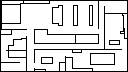
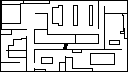
123

Changed region(s): [[0.25, 0.1667, 0.375, 0.4167], [0.4688, 0.6111, 0.5312, 0.6944]]

diff --git a/src/shooter/world/Level.java b/src/shooter/world/Level.java
@@ -15,6 +15,7 @@ import java.util.ArrayList;
 
 import static shooter.entities.Enemy.LOSdist;
 import static shooter.gfx.Display.fraktur;
+import static shooter.gfx.Display.frakturBig;
 
 public class Level {
     //indicates the number of the level
@@ -37,6 +38,8 @@ public class Level {
     private boolean started = false;
     //activity of extraction sequence
     private boolean ended = false;
+    //are enemies dead?
+    private boolean enemiesDead;
     //from which way the player enters the map
     int extractionDir, startDir;
     //this constructor initializes the values
@@ -77,8 +80,12 @@ public class Level {
         //renderTiles(g);
         entityManager.render(g);
         g.drawImage(map[2],(int)(0-handler.getGameCamera().getxOffset()),(int)(0-handler.getGameCamera().getyOffset()),null);
-
-        if(ended && levelNumber != 3) {
+        if(enemiesDead){
+            g.setColor(Color.red);
+            g.setFont(fraktur);
+            g.drawString("go here",(int)(posX- handler.getxOffset()-g.getFontMetrics(fraktur).stringWidth("go here")/2),(int)(posY- handler.getyOffset()));
+        }
+        if(ended && levelNumber != 4) {
             if (entityManager.getPlayer().isMoveA()) {
                 g.setColor(new Color(238, 238, 238));
                 g.fillRect(960 - 600, 540 - 200, 400, 400);
@@ -92,7 +99,7 @@ public class Level {
                 g.setColor(new Color(238, 238, 238));
                 g.fillRect(960 - 200, 540 - 600, 400, 400);
             }
-        }else if(!started) {
+        }else if(!started && levelNumber != 6) {
             if (entityManager.getPlayer().isMoveD()) {
                 g.setColor(new Color(238, 238, 238));
                 g.fillRect(960 - 600, 540 - 200, 400, 400);
@@ -283,8 +290,10 @@ public class Level {
                 break;
             }
         }
-        if(nextLevel && Math.abs(entityManager.getPlayer().getX()-posX)<600&& Math.abs(entityManager.getPlayer().getY()-posY)<600)
+        enemiesDead = true;
+        if(nextLevel && Math.abs(entityManager.getPlayer().getX()-posX)<100&& Math.abs(entityManager.getPlayer().getY()-posY)<100) {
             vanish();
+        }
     }
     //TODO: change distance to extractionpoint
     //method to check if the Rectangle collides with the Player
@@ -301,6 +310,19 @@ public class Level {
         if(x >= 0 && x < 64 * mapsize && y >= 0 && y < 36 * mapsize)
             return tiles[x][y];
         return tiles[0][0];
+    }
+    //alert nearby getEnemies
+    public void alertEnemies(int x, int y, int distance){
+        int dx, dy;
+        for (Entity e : getEntityManager().getEnemies()) {
+            dx = (int) (e.getX() - x);                      //pythagoras
+            dy = (int) (e.getY() - y);                      //pythagoras
+            if((Math.sqrt((dx * dx) + (dy * dy)))  <= distance){
+                ((Enemy) e).setLastCoords();
+                ((Enemy) e).setPlayerSpotted(false);
+                ((Enemy) e).setPathfindingDelay(0);
+            }
+        }
     }
     //debugging
     public void renderTiles(Graphics g){

diff --git a/src/shooter/entities/Item.java b/src/shooter/entities/Item.java
@@ -43,6 +43,8 @@ public class Item extends Entity{
     private Timer meeleTimer;
     //entity that activated the item
     private Entity activator;
+    //loudness of gun
+    private int loudness = 0;
     //this constructor initializes the values
     public Item(float posX, float posY, int type, Handler handler, Level level) {
         super(posX,posY,2, handler, level);
@@ -71,6 +73,7 @@ public class Item extends Entity{
                 rpm = 400;
                 reloadTime = 90;
                 offset = 100;
+                loudness = 300;
                 break;
             case 4:
                 //Silenced Pistol
@@ -80,6 +83,7 @@ public class Item extends Entity{
                 rpm = 85;
                 reloadTime = 120;
                 offset = 70;
+                loudness = 100;
                 break;
             case 5:
                 //Machine Pistol
@@ -89,6 +93,7 @@ public class Item extends Entity{
                 rpm = 600;
                 reloadTime = 120;
                 offset = 80;
+                loudness = 300;
                 break;
             case 6:
                 //Rifle
@@ -98,6 +103,7 @@ public class Item extends Entity{
                 rpm = 120;
                 reloadTime = 180;
                 offset = 50;
+                loudness = 400;
                 break;
             case 7:
                 //Shotgun
@@ -107,6 +113,7 @@ public class Item extends Entity{
                 rpm = 60;
                 reloadTime = 320;
                 offset = 70;
+                loudness = 400;
                 break;
             case 8:
                 //Rocket Launcher
@@ -237,11 +244,13 @@ public class Item extends Entity{
         posY = activator.getY();
     }
     //method to pick an item up
-    public void pick_up(Entity activator){
-        if(type > 2)
-            Sound.play("LoadGun");
-        else if(type == 1 || type == 2)
-            Sound.play("DrawKnife");
+    public void pick_up(Entity activator, boolean sound){
+        if(sound) {
+            if (type > 2)
+                Sound.play("LoadGun");
+            else if (type == 1 || type == 2)
+                Sound.play("DrawKnife");
+        }
         active = false;
         posX = activator.getX();
         posY = activator.getY();
@@ -339,5 +348,8 @@ public class Item extends Entity{
     public boolean isMelee(){ return melee; }
     public int getAmmoMax() {
         return ammoMax;
+    }
+    public int getLoudness() {
+        return loudness;
     }
 }

diff --git a/src/shooter/entities/Enemy.java b/src/shooter/entities/Enemy.java
@@ -241,6 +241,11 @@ public class Enemy extends Entity{
         }
         legAnimation.stop();
     }
+    //starts pathfinding
+    public void goToPlayer(){
+        findpath(level.getTiles(((int) ((posX) / 30)), ((int) ((posY) / 30))), level.getTiles((int)level.getEntityManager().getPlayer().getX(), (int)level.getEntityManager().getPlayer().getY()));
+        playerSpotted = false;
+    }
     //checks it the enemy can see the player
     public boolean lineOfSight(){
         if(Math.abs(level.getEntityManager().getPlayer().getX()-posX)>LOSdist||Math.abs(level.getEntityManager().getPlayer().getY()-posY)>LOSdist)
@@ -272,8 +277,11 @@ public class Enemy extends Entity{
     }
     @Override
     public void tick() {
+        System.out.println(lastCoords[0] +"  "+lastCoords[1]);
+        System.out.println(active);
         if(pathfindingDelay<1) {
             findpath(level.getTiles(((int) ((posX) / 30)), ((int) ((posY) / 30))), level.getTiles(lastCoords[0], lastCoords[1]));
+            System.out.println("helOOOOOOOOOOOOOOOOOOOOOO");
             playerSpotted = false;
         }
 
@@ -298,6 +306,7 @@ public class Enemy extends Entity{
                     activeAnimation = attackAnimations[item.getType()];
                 }
             }else{
+                System.out.println(trace);
                 followTrace(trace);
                 if(playerSpotted) {
                     lastCoords = new int[]{(int) ((level.getEntityManager().getPlayer().getX()) / 30), (int) ((level.getEntityManager().getPlayer().getY()) / 30)};
@@ -338,4 +347,13 @@ public class Enemy extends Entity{
     public Item getItem(){ return item; }
     public boolean getActive(){return super.active;}
     public String getData(){ return ((int)posX+","+(int)posY+","+(int)dir+","+item.getType()+","+item.getAmmo()+","+alive); }
+    public void setLastCoords() {
+        lastCoords = new int[]{(int) ((level.getEntityManager().getPlayer().getX()) / 30), (int) ((level.getEntityManager().getPlayer().getY()) / 30)};
+    }
+    public void setPlayerSpotted(boolean playerSpotted) {
+        this.playerSpotted = playerSpotted;
+    }
+    public void setPathfindingDelay(int pathfindingDelay) {
+        this.pathfindingDelay = pathfindingDelay;
+    }
 }

diff --git a/src/shooter/entities/Player.java b/src/shooter/entities/Player.java
@@ -41,7 +41,7 @@ public class Player extends Entity{
             item = new Item(posX, posY, itemType, handler, level);
             item.setAmmo(ammo);
             level.getEntityManager().addEntity(item);
-            item.pick_up(this);
+            item.pick_up(this, false);
             ableToPickup = false;
         }
 
@@ -79,6 +79,7 @@ public class Player extends Entity{
         if(item != null) {
             if(handler.getMouseManager().isLeftPressed()&&item.getAmmo()!=0) {
                 item.activate(this);
+                level.alertEnemies((int)posX, (int)posY, item.getLoudness());
                 activeAnimation = attackAnimations[item.getType()];
             }
             if(handler.getMouseManager().isRightPressed() && ableToDrop){
@@ -92,7 +93,7 @@ public class Player extends Entity{
             if(handler.getMouseManager().isRightPressed() && ableToPickup) {
                 item = (Item) (level.getEntityManager().getClosestItem(posX, posY));
                 if (item != null) {
-                    item.pick_up(this);
+                    item.pick_up(this, true);
                     ableToPickup = false;
                     activeAnimation = walkAnimations[item.getType()];
                 }
@@ -194,7 +195,7 @@ public class Player extends Entity{
     }
     //lets the player die and resets the Level
     public void die() {
-        if (item == null) return;
+        if (item == null &&Math.random()>0.5) return;
         else if (getItem().getType() == 1&&Math.random()>0.2) return;
         else if (getItem().getType() == 2&&Math.random()>0.1) return;
         alive = false;
